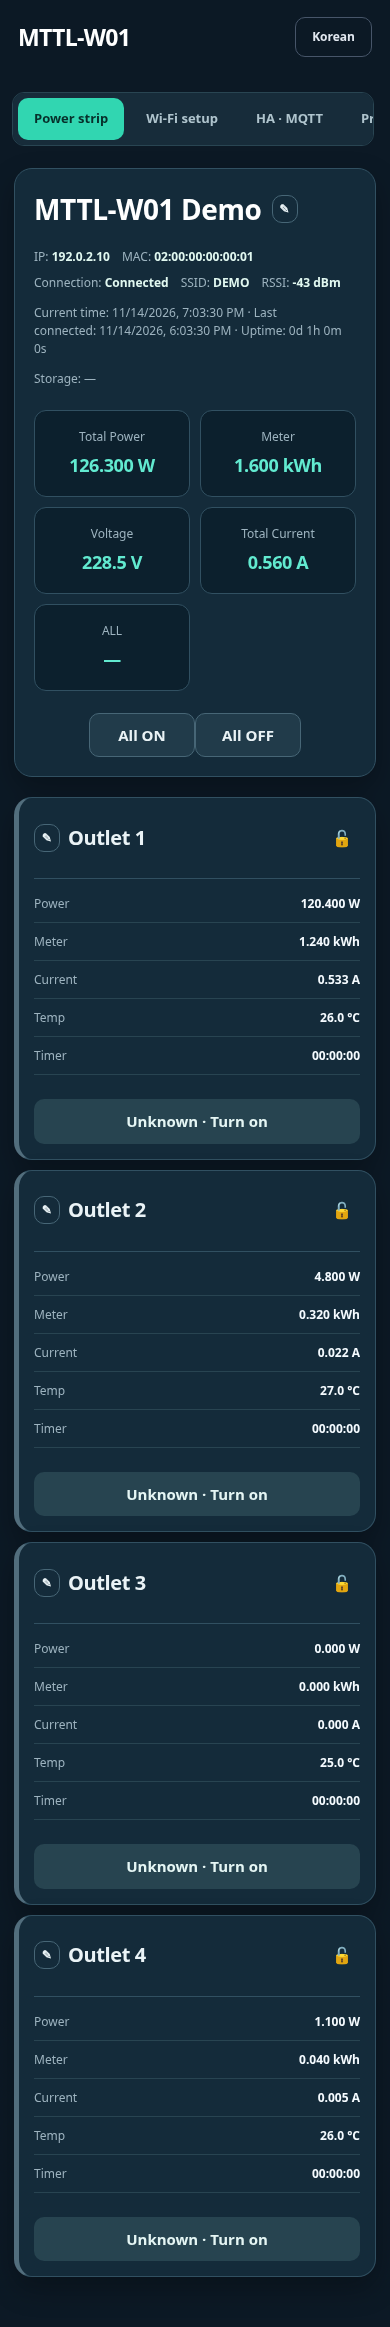
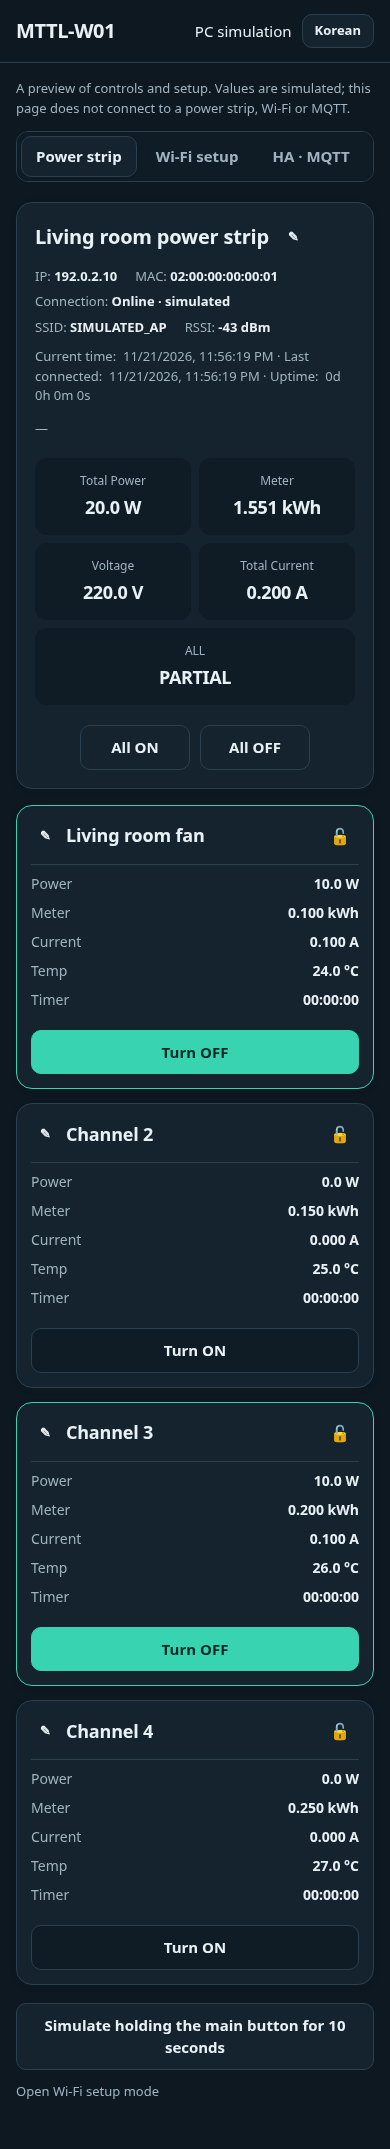
Modernize dashboard styling with light and dark themes
Replace the stacked light-plus-dark-override stylesheet with one set of
color tokens that follows prefers-color-scheme, using the system font stack
only. Cards, summary tiles, tabs and outlet controls share the tokens; an
outlet card is outlined in the accent color when its switch is on (keyed
off .is-on so the device build shows it too). Focus rings, selection,
tabular numerals and a single-column phone layout are included.

The firmware preview shows the SHA-256 on its own line with a Copy button
(clipboard API with a selection fallback) and a hint to compare the file
hash with the value published by your OTA server. The OTA test panel in
build_assets.py gets the same hint.

Element IDs, i18n keys, ARIA tab markup, outlet confirmations and the OTA
upload flow are unchanged. Device UI gzip total drops from 19166 to 19098
bytes (normal) and 19995 to 19862 bytes (--ota-test), within the 20000-byte
budget. Dashboard screenshots are regenerated from the preview.

Changed region(s): [[0.0308, 0.0, 0.9846, 0.9977]]

diff --git a/source/standalone/ui/index.html b/source/standalone/ui/index.html
@@ -4,28 +4,33 @@
 <meta name="viewport" content="width=device-width,initial-scale=1">
 <title>MTTL-W01 · Local control</title>
 <style>
-  :root{font:14px/1.5 "Segoe UI Variable","Apple SD Gothic Neo","Malgun Gothic",sans-serif;color:#1e293b;background:#f5f7fb;accent-color:#2563eb;--line:#e2e8f0;--muted:#64748b;--blue:#2563eb}
-  *{box-sizing:border-box}body{margin:0}header{background:#0f172a;color:white;padding:22px max(24px,calc((100% - 1152px)/2));display:flex;justify-content:space-between;align-items:center;gap:16px}h1{font-size:21px;letter-spacing:-.6px;margin:0}h2{font-size:19px;letter-spacing:-.4px;margin:0 0 20px}
-  main{max-width:1200px;margin:28px auto;padding:0 24px}.note,.muted,.meta,.sensor span:first-child,.summary small{color:var(--muted)}.note,.muted,.meta{font-size:12px}nav{display:flex;gap:6px;flex-wrap:wrap;margin-bottom:24px;background:#eaf0f7;border-radius:14px;padding:6px;width:fit-content;max-width:100%}
-  button,input,select{font:inherit;color:inherit;border:1px solid var(--line);border-radius:10px}button{cursor:pointer;background:white;padding:10px 16px;font-weight:600;}button:hover{background:#f1f5f9;border-color:#b9c6d8}nav button{border-color:transparent;background:transparent;font-size:13px}nav button[aria-selected=true]{background:white;color:var(--blue);}.primary{background:var(--blue);color:white;border-color:var(--blue)}.primary:hover{background:#1d4ed8;color:white}button:disabled{opacity:.45;cursor:default}:focus-visible{outline:3px solid #93c5fd;outline-offset:3px}
-  section{display:none}section.active{display:block}.panel,.channel{background:white;border:1px solid var(--line);border-radius:18px}.panel{padding:26px;margin-bottom:20px}.summary{display:grid;grid-template-columns:repeat(5,minmax(0,1fr));gap:12px;margin-top:22px}.summary div{background:#f8fafc;border:1px solid #edf2f7;border-radius:12px;padding:16px 8px;text-align:center}.summary small{display:block;font-size:11px;margin-bottom:6px}.summary b{font-size:19px;letter-spacing:-.4px;font-variant-numeric:tabular-nums}
-  .channels{display:grid;grid-template-columns:repeat(4,minmax(0,1fr));gap:16px}.channel{padding:20px;min-width:0}.channel-head{display:flex;align-items:center;min-height:66px;gap:8px;border-bottom:1px solid #f1f5f9;padding-bottom:16px;margin-bottom:16px}.channel-head>h2{flex:1;min-width:0;overflow-wrap:anywhere;margin:0;font-size:19px}.edit-name{padding:4px 7px;font-size:12px;flex-shrink:0;background:transparent}.channel-lock{border-color:transparent}.channel-lock[aria-pressed=true]{background:#fff7ed;border-color:#fed7aa}.sensor{display:flex;justify-content:space-between;gap:8px;margin:12px 0;font-size:13px}.sensor b{font-weight:600;font-variant-numeric:tabular-nums;overflow-wrap:anywhere}.channel .sensor{flex-wrap:wrap}.switch{width:100%;margin-top:14px;background:#f1f5f9;border-color:transparent;color:#475569}.switch.is-on,.channel.on .switch{background:#10b981;color:white;border-color:transparent;}.switch.is-on:hover{background:#059669}.controls{text-align:center;margin-top:22px}.controls button{min-width:106px}.meta{display:flex;gap:10px 20px;flex-wrap:wrap}.meta b{color:#334155;font-weight:500}.time{margin-top:12px}
-  form{max-width:520px}label{display:block;margin:18px 0 7px;font-size:12px;font-weight:600}input,select{width:100%;padding:11px 12px;background:#f8fafc}input[type=checkbox]{width:auto;margin-right:8px}input[type=range]{padding:0}.row{display:flex;gap:12px;align-items:center;flex-wrap:wrap;margin-top:20px}.status{min-height:22px;color:#047857;font-size:12px;margin-top:16px}.status.error{color:#b91c1c}pre{margin:0;padding:18px;border-radius:12px;background:#0f172a;color:#cbd5e1;font:12px/1.8 ui-monospace,monospace;white-space:pre-wrap;height:300px;overflow:auto}
-  .header-tools,.device-heading,.device-title{display:flex;align-items:center;gap:10px}.device-heading{justify-content:space-between;margin-bottom:18px}.device-title{min-width:0}.device-heading h2{margin:0;overflow-wrap:anywhere}#language,#language:hover{background:transparent;color:#e2e8f0;border-color:#475569;font-size:12px}.name-editor{margin:20px 0;padding:18px;background:#f8fafc;border:1px solid var(--line);border-radius:12px}.name-grid{display:grid;grid-template-columns:repeat(2,minmax(0,1fr));gap:0 14px}.name-grid .wide{grid-column:1/-1}.protection-slider input{flex:1;min-width:0;width:auto}.protection-slider b{min-width:80px;text-align:right;white-space:nowrap}.schedule-time{display:flex;align-items:center;width:max-content;border:1px solid var(--line);border-radius:10px;overflow:hidden}.schedule-time input,.schedule-time select{width:auto;border:0;border-radius:0;padding:10px}.schedule-time input{width:65px}
-  @media(max-width:800px){.channels{grid-template-columns:repeat(2,minmax(0,1fr))}}@media(max-width:600px){header{padding:18px}main{padding:0 14px;margin-top:18px}.panel{padding:18px}.channel{padding:14px}.summary{grid-template-columns:repeat(3,minmax(0,1fr));gap:8px}.summary div{padding:12px 5px}.summary b{font-size:16px}.sensor{font-size:12px}.meta{gap:8px 12px}nav{flex-wrap:nowrap;overflow:auto;width:100%}nav button{white-space:nowrap;padding:9px 12px}}
-  [data-i18n="connection"]::after,[data-i18n="currentTime"]::after,[data-i18n="recentConnection"]::after,[data-i18n="uptime"]::after{content:":\00a0"}.channel-lock{font-size:16px;line-height:18px;padding:4px 7px}
-  #timer-form{max-width:none}#timer-editor{display:grid;grid-template-columns:repeat(4,minmax(0,1fr));gap:16px}#timer-editor>p,#timer-editor>button{grid-column:1/-1}#timer-editor>.name-editor{min-width:0;margin:0;padding:16px}#timer-editor .row{gap:8px;margin-top:8px}#timer-editor .row label{flex:1;min-width:0}#timer-editor .row input{width:100%!important}#timer-editor .row button{width:100%}
-  #timer-editor>button{justify-self:center;width:auto;min-width:140px}#timer-editor>.name-editor>b{display:block;text-align:center}#timer-editor .row label{text-align:center}#timer-editor .row input{text-align:right}
-  #log{height:600px}
-  @media(max-width:900px){#timer-editor{grid-template-columns:repeat(2,minmax(0,1fr))}}@media(max-width:480px){.channels,#timer-editor{grid-template-columns:1fr}}
-  :root{font:15px/1.5 system-ui,-apple-system,"Segoe UI",sans-serif;color:#eaf3f6;background:#0c1925;accent-color:#31d6b1;--line:#344d5b;--muted:#9db3bf;--blue:#31d6b1}
-  body{min-height:100vh}header{background:#0c1925;padding-top:20px;padding-bottom:20px}header h1{font-size:23px;letter-spacing:-.03em}main{margin-top:30px;margin-bottom:50px}
-  nav{background:#172c3a;padding:5px;border:1px solid #294552;border-radius:12px;margin-bottom:22px}nav button{color:#afc4cd;padding:10px 15px}nav button[aria-selected=true]{background:#31d6b1;color:#07302b}
-  .panel,.channel{background:#142b3a;border:1px solid #315061;border-radius:18px;box-shadow:0 12px 28px #0004}.panel{padding:28px}.device-heading h2{font-size:28px;color:#fff}.meta b{color:#e1f8f0;font-weight:650}
-  .summary{gap:10px}.summary div{background:#0c202d;border:1px solid #315061;border-radius:12px;padding:17px 10px}.summary small{font-size:12px;color:#9db3bf}.summary b{font-size:22px;color:#62ead0}
-  .channels{grid-template-columns:repeat(2,minmax(0,1fr));gap:14px}.channel{border-left:5px solid #526e7d;padding:20px}.channel.on{border-left-color:#31d6b1}.channel-head{border-bottom-color:#315061}.channel-head>h2{font-size:20px}.sensor{border-bottom:1px solid #284451;padding-bottom:9px;margin:10px 0}.sensor b{color:#f5fbff}.channel .switch{background:#274450;color:#e5f6f4}.channel .switch.is-on,.channel.on .switch{background:#31d6b1;color:#07302b}
-  button{background:#213b4a;color:#eaf3f6;border-color:#476676}button:hover{background:#2d5260;color:#fff}.primary{background:#31d6b1;border-color:#31d6b1;color:#07302b}.primary:hover:not(:disabled){background:#24bb9a;border-color:#24bb9a;color:#07302b}input,select{background:#0e2330;color:#fff}.name-editor{background:#0e2330}
-  @media(max-width:600px){header{padding:17px 18px}main{margin-top:18px}.panel{padding:19px}.summary{grid-template-columns:repeat(2,minmax(0,1fr))}.summary b{font-size:18px}.channels{grid-template-columns:1fr;gap:10px}.channel{padding:15px}nav{margin-inline:-2px}}
+  :root{color-scheme:light dark;font:15px/1.5 system-ui,-apple-system,"Segoe UI","Apple SD Gothic Neo","Malgun Gothic",sans-serif;--bg:#f3f5f7;--card:#fff;--soft:#eef2f5;--fg:#15212b;--muted:#566673;--line:#d9e1e7;--accent:#0a7c67;--on:#fff;--err:#b42318;--ok:#067647;color:var(--fg);background:var(--bg);accent-color:var(--accent)}
+  @media(prefers-color-scheme:dark){:root{--bg:#0d1820;--card:#14232e;--soft:#0f1c26;--fg:#e9f1f5;--muted:#a0b3be;--line:#2b404e;--accent:#38d4b2;--on:#052b24;--err:#ff8f85;--ok:#62e0c0}}
+  *{box-sizing:border-box}body{margin:0;min-height:100vh}::selection{background:var(--accent);color:var(--on)}
+  header{padding:18px max(20px,calc((100% - 1152px)/2));display:flex;justify-content:space-between;align-items:center;gap:16px;border-bottom:1px solid var(--line)}h1{font-size:20px;letter-spacing:-.02em;margin:0}h2{font-size:18px;letter-spacing:-.01em;margin:0 0 18px;text-wrap:balance}
+  main{max-width:1200px;margin:24px auto 48px;padding:0 24px}.note,.muted,.meta,.sensor span:first-child,.summary small{color:var(--muted)}.note,.muted,.meta{font-size:13px}
+  nav{display:flex;gap:4px;flex-wrap:wrap;margin-bottom:20px;background:var(--soft);border:1px solid var(--line);border-radius:12px;padding:4px;width:fit-content;max-width:100%}
+  button,input,select{font:inherit;color:inherit;border:1px solid var(--line);border-radius:10px}button{cursor:pointer;background:var(--card);padding:10px 16px;font-weight:600;min-height:40px}button:where(:hover:not(:disabled)){border-color:var(--muted)}nav button{border-color:transparent;background:none;color:var(--muted);padding:8px 14px}nav button[aria-selected=true]{background:var(--card);color:var(--fg);border-color:var(--line);box-shadow:0 1px 3px #0002}
+  .primary{background:var(--accent);border-color:var(--accent);color:var(--on)}button:disabled{opacity:.45;cursor:default}:focus-visible{outline:3px solid var(--accent);outline-offset:2px}
+  section{display:none}section.active{display:block}.panel,.channel{background:var(--card);border:1px solid var(--line);border-radius:16px;box-shadow:0 2px 8px #0000000d}.panel{padding:24px;margin-bottom:16px}
+  .summary{display:grid;grid-template-columns:repeat(5,minmax(0,1fr));gap:10px;margin-top:20px}.summary div{background:var(--soft);border-radius:12px;padding:14px 10px;text-align:center}.summary small{display:block;font-size:12px;margin-bottom:4px}.summary b,.sensor b{font-variant-numeric:tabular-nums}.summary b{font-size:20px;letter-spacing:-.02em}
+  .channels{display:grid;grid-template-columns:repeat(4,minmax(0,1fr));gap:14px}.channel{padding:18px;min-width:0}.channel:has(.is-on),.channel.on{border-color:var(--accent)}.channel-head{display:flex;align-items:center;gap:6px;border-bottom:1px solid var(--line);padding-bottom:12px;margin-bottom:6px}.channel-head>h2{flex:1;min-width:0;overflow-wrap:anywhere;margin:0}
+  .edit-name{padding:4px 8px;font-size:13px;min-height:32px;flex-shrink:0;background:none;border-color:transparent}.channel-lock[aria-pressed=true]{border-color:var(--line);background:var(--soft)}
+  .sensor{display:flex;justify-content:space-between;gap:8px;margin:8px 0;font-size:14px}.sensor b{font-weight:600;overflow-wrap:anywhere}.channel .sensor{flex-wrap:wrap}
+  .switch{width:100%;margin-top:12px;background:var(--soft)}.switch.is-on,.channel.on .switch{background:var(--accent);border-color:var(--accent);color:var(--on)}
+  .controls{display:flex;gap:10px;justify-content:center;margin-top:20px}.controls button{min-width:110px}.meta{display:flex;gap:6px 18px;flex-wrap:wrap}.meta b{color:var(--fg);font-weight:600}.time{margin-top:10px}
+  form{max-width:520px}label{display:block;margin:16px 0 6px;font-size:13px;font-weight:600}input,select{width:100%;padding:10px 12px;background:var(--soft)}input[type=checkbox]{width:auto;margin-right:8px}input[type=range]{padding:0}
+  .row,.file-picker{display:flex;gap:12px;align-items:center;flex-wrap:wrap;margin-top:18px}.status{min-height:22px;color:var(--ok);font-size:13px;margin-top:14px}.status.error{color:var(--err)}
+  pre{margin:0;padding:16px;border-radius:12px;background:var(--soft);border:1px solid var(--line);font:12px/1.7 ui-monospace,monospace;white-space:pre-wrap;height:300px;overflow:auto}
+  .header-tools,.device-heading,.device-title{display:flex;align-items:center;gap:10px}.device-heading{justify-content:space-between;margin-bottom:14px}.device-title{min-width:0}.device-heading h2{margin:0;font-size:24px;overflow-wrap:anywhere}#language{font-size:13px;padding:6px 12px;min-height:34px}
+  .name-editor{margin:18px 0;padding:16px;background:var(--soft);border:1px solid var(--line);border-radius:12px}.name-grid{display:grid;grid-template-columns:repeat(2,minmax(0,1fr));gap:0 14px}.name-grid .wide{grid-column:1/-1}
+  .protection-slider input{flex:1;min-width:0;width:auto}.protection-slider b{min-width:80px;text-align:right;white-space:nowrap}.schedule-time{display:flex;align-items:center;width:max-content;border:1px solid var(--line);border-radius:10px;overflow:hidden}.schedule-time input,.schedule-time select{width:auto;border:0;border-radius:0;padding:10px}.schedule-time input{width:65px}
+  .hash{display:block;margin-bottom:12px;font:12px/1.5 ui-monospace,monospace;word-break:break-all}.firmware-info{margin-top:18px;padding:4px 16px;background:var(--soft);border-radius:12px}progress{width:100%;margin-top:14px}
+  [data-i18n="connection"]::after,[data-i18n="currentTime"]::after,[data-i18n="recentConnection"]::after,[data-i18n="uptime"]::after{content:":\00a0"}.channel-lock{font-size:16px;line-height:18px}
+  #timer-form{max-width:none}#timer-editor{display:grid;grid-template-columns:repeat(4,minmax(0,1fr));gap:14px}#timer-editor>p,#timer-editor>button{grid-column:1/-1}#timer-editor>.name-editor{min-width:0;margin:0}#timer-editor .row{gap:8px;margin-top:8px}#timer-editor .row label{flex:1;min-width:0;text-align:center}#timer-editor .row input{width:100%!important;text-align:right}#timer-editor .row button{width:100%}
+  #timer-editor>button{justify-self:center;width:auto;min-width:140px}#timer-editor>.name-editor>b{display:block;text-align:center}#log{height:600px}
+  @media(max-width:900px){.channels,#timer-editor{grid-template-columns:repeat(2,minmax(0,1fr))}}
+  @media(max-width:600px){header{padding:14px 16px}main{padding:0 16px;margin-top:16px}.panel{padding:18px}.channel{padding:14px}.summary{grid-template-columns:repeat(2,minmax(0,1fr));gap:8px}.summary b{font-size:18px}.summary div:last-child{grid-column:1/-1}.device-heading h2{font-size:20px}nav{flex-wrap:nowrap;overflow:auto;width:100%}nav button{white-space:nowrap}.channels,#timer-editor{grid-template-columns:1fr}#log{height:420px}}
 </style>
 <header><h1>MTTL-W01</h1><div class="header-tools"><span class="badge" data-i18n="simulation">PC 모의 화면</span><button id="language" type="button">English</button></div></header>
 <main>
@@ -109,11 +114,12 @@
         <div class="sensor"><span data-i18n="format">형식</span><b id="firmware-format">—</b></div>
         <div class="sensor"><span data-i18n="versionCandidates">본문의 버전 후보</span><b id="firmware-version">—</b></div>
         <div class="sensor"><span data-i18n="checksum">체크섬</span><b id="firmware-checksum">—</b></div>
-        <div class="sensor"><span>SHA-256</span><b id="firmware-hash" class="hash">—</b></div>
+        <div class="sensor"><span>SHA-256</span><button id="firmware-copy" type="button" class="edit-name" data-i18n="copyHash">복사</button></div><b id="firmware-hash" class="hash">—</b>
       </div>
       <progress id="firmware-progress" value="0" max="100" hidden aria-label="모의 업데이트 진행률" data-i18n-aria="progressLabel"></progress>
       <div id="firmware-status" class="status" role="status" aria-live="polite">파일을 선택하고 검사해 주세요.</div>
       <ol class="firmware-steps"><li data-i18n="firmwareStep1">파일 형식·크기·진입점·체크섬 검사</li><li data-i18n="firmwareStep2">업로드 및 재검사 진행 모의</li><li data-i18n="firmwareStep3">재부팅·재연결 진행 모의</li></ol>
+      <p class="muted" data-i18n="otaServerHint">펌웨어는 사용하는 OTA 서버에서만 받고, 업로드 전에 파일의 SHA-256을 서버에 게시된 값과 비교하세요.</p>
       <p class="muted" data-i18n="firmwareLimit">형식 검사 통과는 실제 부팅 보증이 아닙니다. 이 화면은 파일을 서버나 기기에 전송하지 않으며, 실제 기록·재부팅은 연결되지 않았습니다.</p>
     </div>
   </section>

diff --git a/source/standalone/ui/i18n.js b/source/standalone/ui/i18n.js
@@ -26,6 +26,7 @@
     checksum:'체크섬',match:'일치',unknown:'확인 불가',progressLabel:'모의 업데이트 진행률',chooseFile:'파일을 선택하고 검사해 주세요.',
     firmwareStep1:'파일 형식·크기·진입점·체크섬 검사',firmwareStep2:'업로드 및 재검사 진행 모의',firmwareStep3:'재부팅·재연결 진행 모의',
     firmwareLimit:'형식 검사 통과는 실제 부팅 보증이 아닙니다. 이 화면은 파일을 서버나 기기에 전송하지 않으며, 실제 기록·재부팅은 연결되지 않았습니다.',
+    copyHash:'복사',hashCopied:'SHA-256을 복사했습니다.',copyFailed:'복사할 수 없습니다. 값을 직접 선택해 주세요.',otaServerHint:'펌웨어는 사용하는 OTA 서버에서만 받고, 업로드 전에 파일의 SHA-256을 서버에 게시된 값과 비교하세요.',
     noFile:'펌웨어 파일을 선택해 주세요.',fwSize:'파일 크기가 검사 범위를 벗어납니다.',fwCrypto:'이 브라우저 환경에서는 SHA-256 검사를 사용할 수 없습니다.',
     inspecting:'파일 검사 중…',inspectionPassed:'파일 형식·체크섬 검사 통과. 업데이트 진행을 모의 실행할 수 있습니다.',
     fwImage:'Image2 헤더·진입점·파일 길이·체크섬 검사에 실패했습니다.',fwHashSyntax:'예상 SHA-256은 64자리 16진수여야 합니다.',
@@ -63,6 +64,7 @@
     checksum:'Checksum',match:'matches',unknown:'Unknown',progressLabel:'Simulated update progress',chooseFile:'Choose a file, then inspect it.',
     firmwareStep1:'Inspect format, size, entry point and checksum',firmwareStep2:'Simulate upload and verification',firmwareStep3:'Simulate restart and reconnection',
     firmwareLimit:'Passing inspection does not guarantee boot compatibility. This page does not transmit the file to a server or device; flash writing and restart are not connected.',
+    copyHash:'Copy',hashCopied:'SHA-256 copied.',copyFailed:'Copy failed. Select the value manually.',otaServerHint:'Download firmware only from your OTA server and compare the file SHA-256 with the value it publishes before uploading.',
     noFile:'Choose a firmware file.',fwSize:'The file size is outside the inspection budget.',fwCrypto:'SHA-256 inspection is unavailable in this browser context.',
     inspecting:'Inspecting file…',inspectionPassed:'Format and checksum passed. You can simulate the update process.',
     fwImage:'Image2 header, entry point, file length or checksum validation failed.',fwHashSyntax:'Expected SHA-256 must contain 64 hexadecimal digits.',

diff --git a/source/standalone/ui/app.js b/source/standalone/ui/app.js
@@ -103,6 +103,14 @@
     }catch(error){if(generation===firmwareGeneration){status('firmware-status',error.code&&MttlI18n.messages.ko[error.code]?error.code:'fwRead',true);log('log_fwFailed');}}
     finally{byId('firmware-verify').disabled=false;}
   });
+  byId('firmware-copy').addEventListener('click',async()=>{
+    const value=byId('firmware-hash').textContent;
+    try{if(!/^[0-9a-f]{64}$/.test(value))throw Error('hash');
+      if(navigator.clipboard&&globalThis.isSecureContext)await navigator.clipboard.writeText(value);
+      else{const range=document.createRange();range.selectNodeContents(byId('firmware-hash'));getSelection().removeAllRanges();getSelection().addRange(range);if(!document.execCommand('copy'))throw Error('copy');}
+      status('firmware-status','hashCopied');
+    }catch(_){status('firmware-status','copyFailed',true);}
+  });
   byId('firmware-form').addEventListener('submit',async event=>{
     event.preventDefault();if(firmwareBusy||!verifiedFirmware||verifiedFirmware.generation!==firmwareGeneration)return;firmwareBusy=true;['firmware-file','firmware-expected','firmware-verify','firmware-update'].forEach(id=>byId(id).disabled=true);byId('firmware-progress').hidden=false;
     try{for(const [percent,key] of [[25,'uploading'],[70,'rechecking'],[90,'rebooting'],[100,'updateComplete']]){byId('firmware-progress').value=percent;status('firmware-status',key);await new Promise(resolve=>setTimeout(resolve,450));}log('log_fwComplete');verifiedFirmware=null;}

diff --git a/source/standalone/build_assets.py b/source/standalone/build_assets.py
@@ -27,7 +27,7 @@ if options.ota_test:
 <label id="ota-file-label" for="firmware-picker"></label><input id="firmware-file" type="file" accept=".fwr" hidden>
 <div class="file-picker"><button id="firmware-picker" type="button" data-i18n="chooseFirmwareFile">파일 선택</button><span id="firmware-selected" class="muted" aria-live="polite"></span></div>
 <div class="row"><button id="firmware-verify" type="button" hidden></button><button id="firmware-update" class="primary" disabled></button></div></form>
-<div id="firmware-status" class="status" role="status" aria-live="polite"></div></div></section>'''
+<div id="firmware-status" class="status" role="status" aria-live="polite"></div><p class="muted" data-i18n="otaServerHint"></p></div></section>'''
     html=re.sub(r'<section id="firmware".*?</section>',lambda _:panel,html,flags=re.S)
     # OTA initialization is bundled with the common controller below: it cannot
     # be lost independently while the rest of the dashboard appears healthy.
